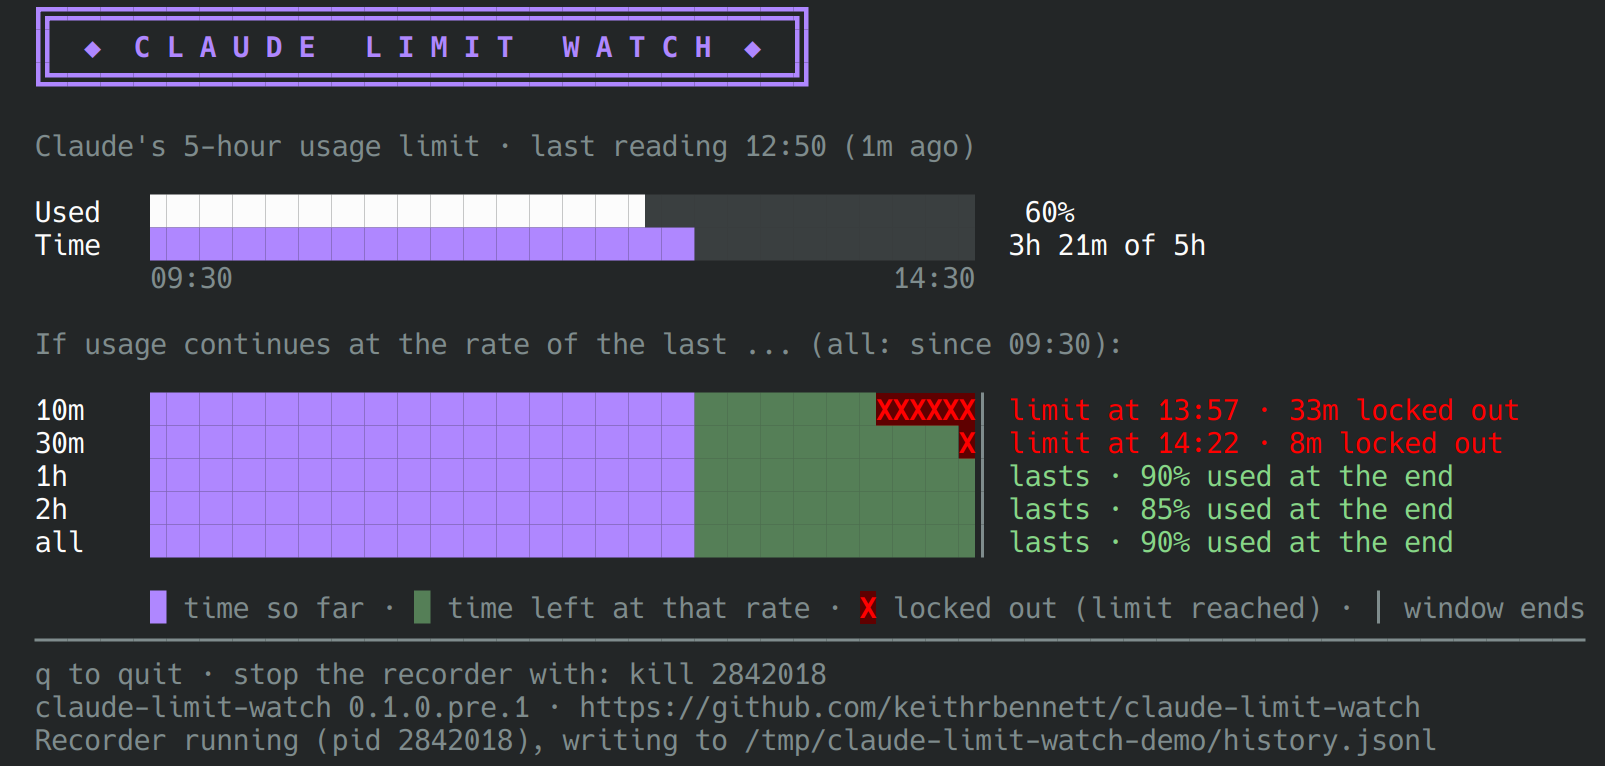
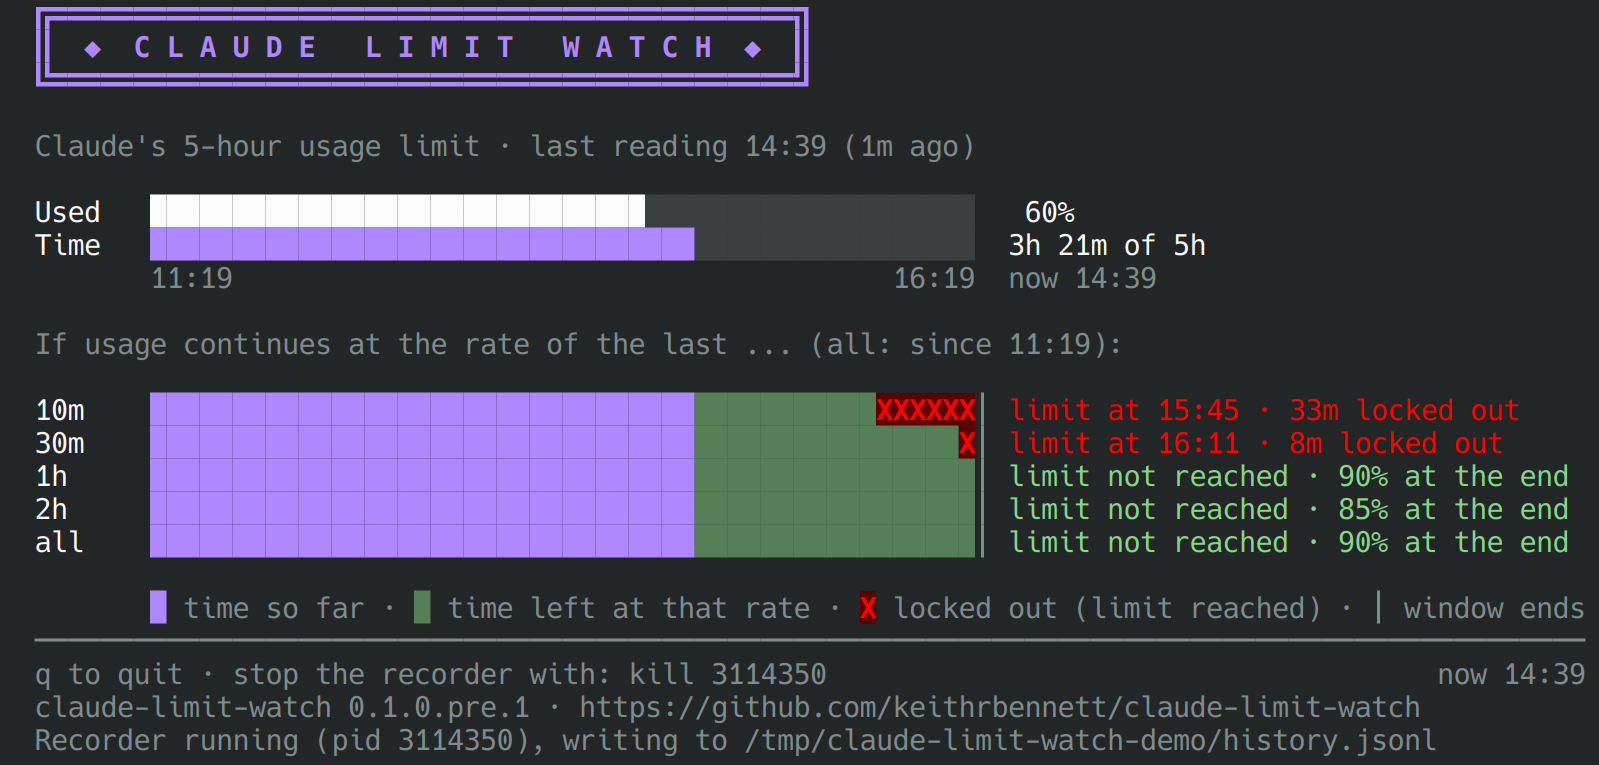
Retake the panel screenshot and show it in the Panel section
Replace the out-of-date screenshot with one from the demo history. It
shows the current time on the Time row and in the footer.

Show the screenshot in the Panel section too, in place of the text
sample, which showed a different scenario from the screenshot.

diff --git a/README.md b/README.md
@@ -79,29 +79,7 @@ The panel takes over the whole terminal window, like `less` or `vim`,
 and when you quit, your earlier terminal output is restored. Press **q** or
 Ctrl-C to quit; the recorder keeps running.
 
-      ╔═════════════════════════════════════════════╗
-      ║  ◆  C L A U D E   L I M I T   W A T C H  ◆  ║
-      ╚═════════════════════════════════════════════╝
-
-      Claude's 5-hour usage limit · last reading 01:28 (<1m ago)
-
-      Used   █████████████████████████████████████████████░░░░░   89%
-      Time   ███████████████████████████████████████████░░░░░░░  4h 18m of 5h
-             21:10                                        02:10  now 01:28
-
-      If usage continues at the rate of the last ... (all: since 21:10):
-
-      10m    ███████████████████████████████████████████▒▒▒▒XXX│ limit at 01:49 · 20m locked out
-      30m    ███████████████████████████████████████████▒▒▒XXXX│ limit at 01:47 · 23m locked out
-      1h     ███████████████████████████████████████████▒▒▒▒XXX│ limit at 01:49 · 20m locked out
-      2h     ███████████████████████████████████████████▒▒▒▒▒▒X│ limit at 02:01 · 8m locked out
-      all    ███████████████████████████████████████████▒▒▒▒▒XX│ limit at 01:59 · 10m locked out
-
-             █ time so far · ▒ time left at that rate · X locked out (limit reached) · │ window ends
-      ──────────────────────────────────────────────────────────────────────────────────────────────
-      q to quit · stop the recorder with: claude-limit-watch stop                          now 01:28
-      claude-limit-watch 0.1.0 · https://github.com/keithrbennett/claude-limit-watch
-      Recorder running (pid 4110391), writing to ~/.local/state/claude-limit-watch/history.jsonl
+![The claude-limit-watch panel](docs/images/panel.png)
 
 From top to bottom:
 
